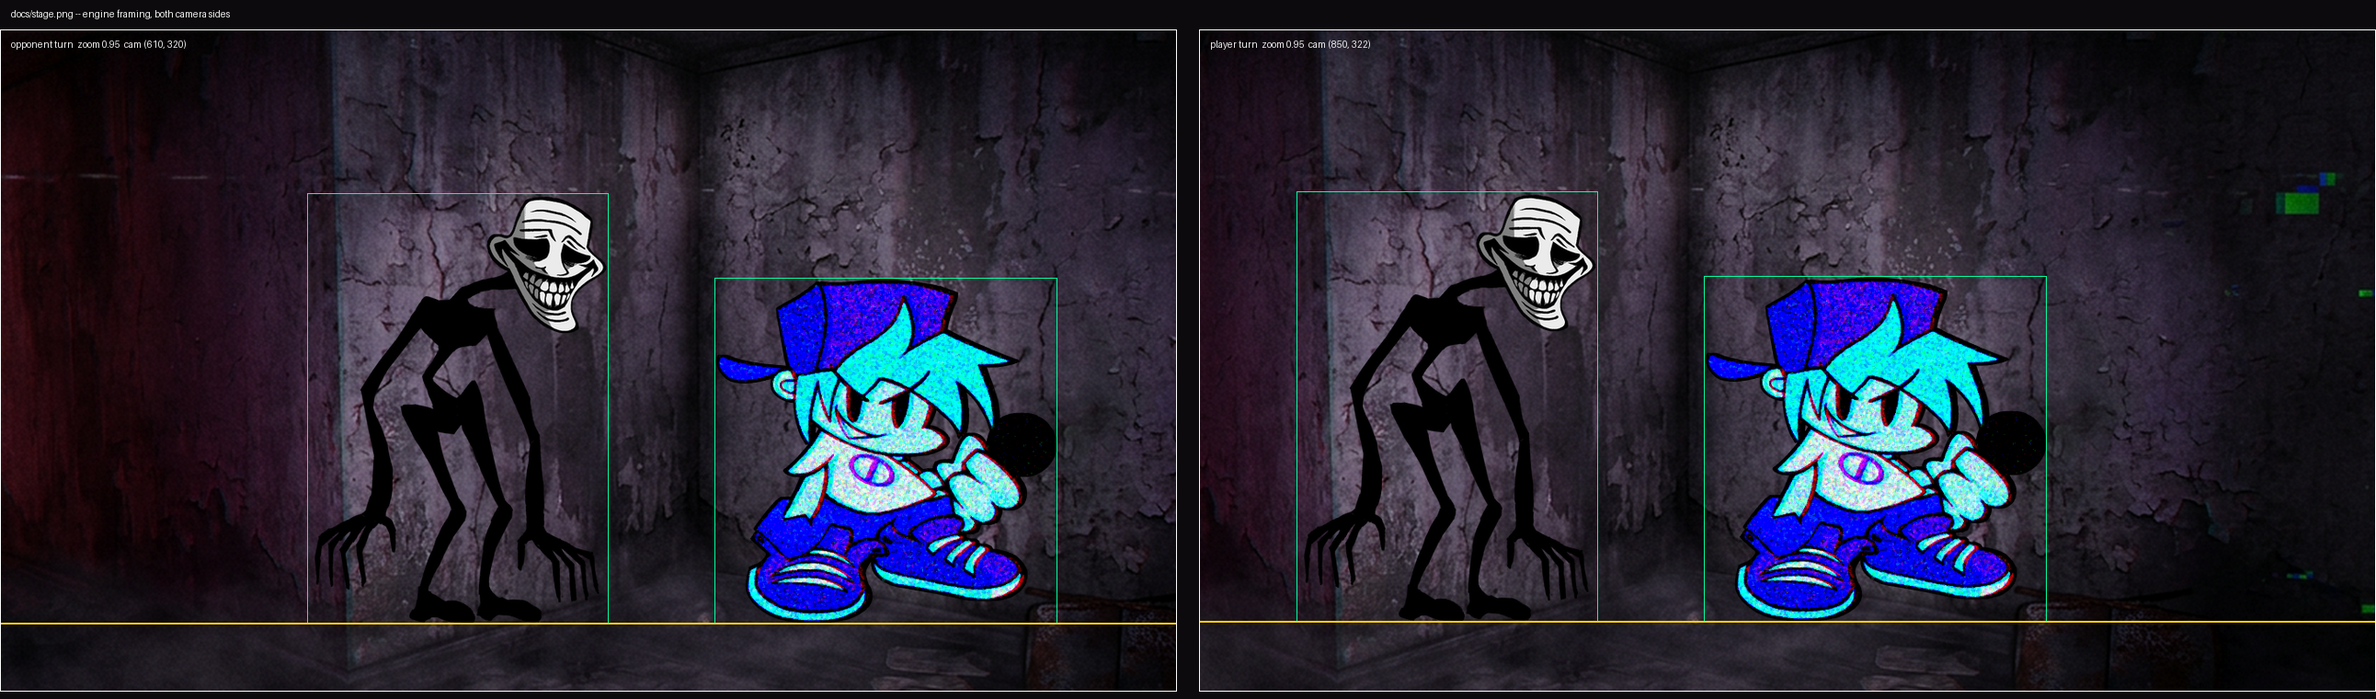
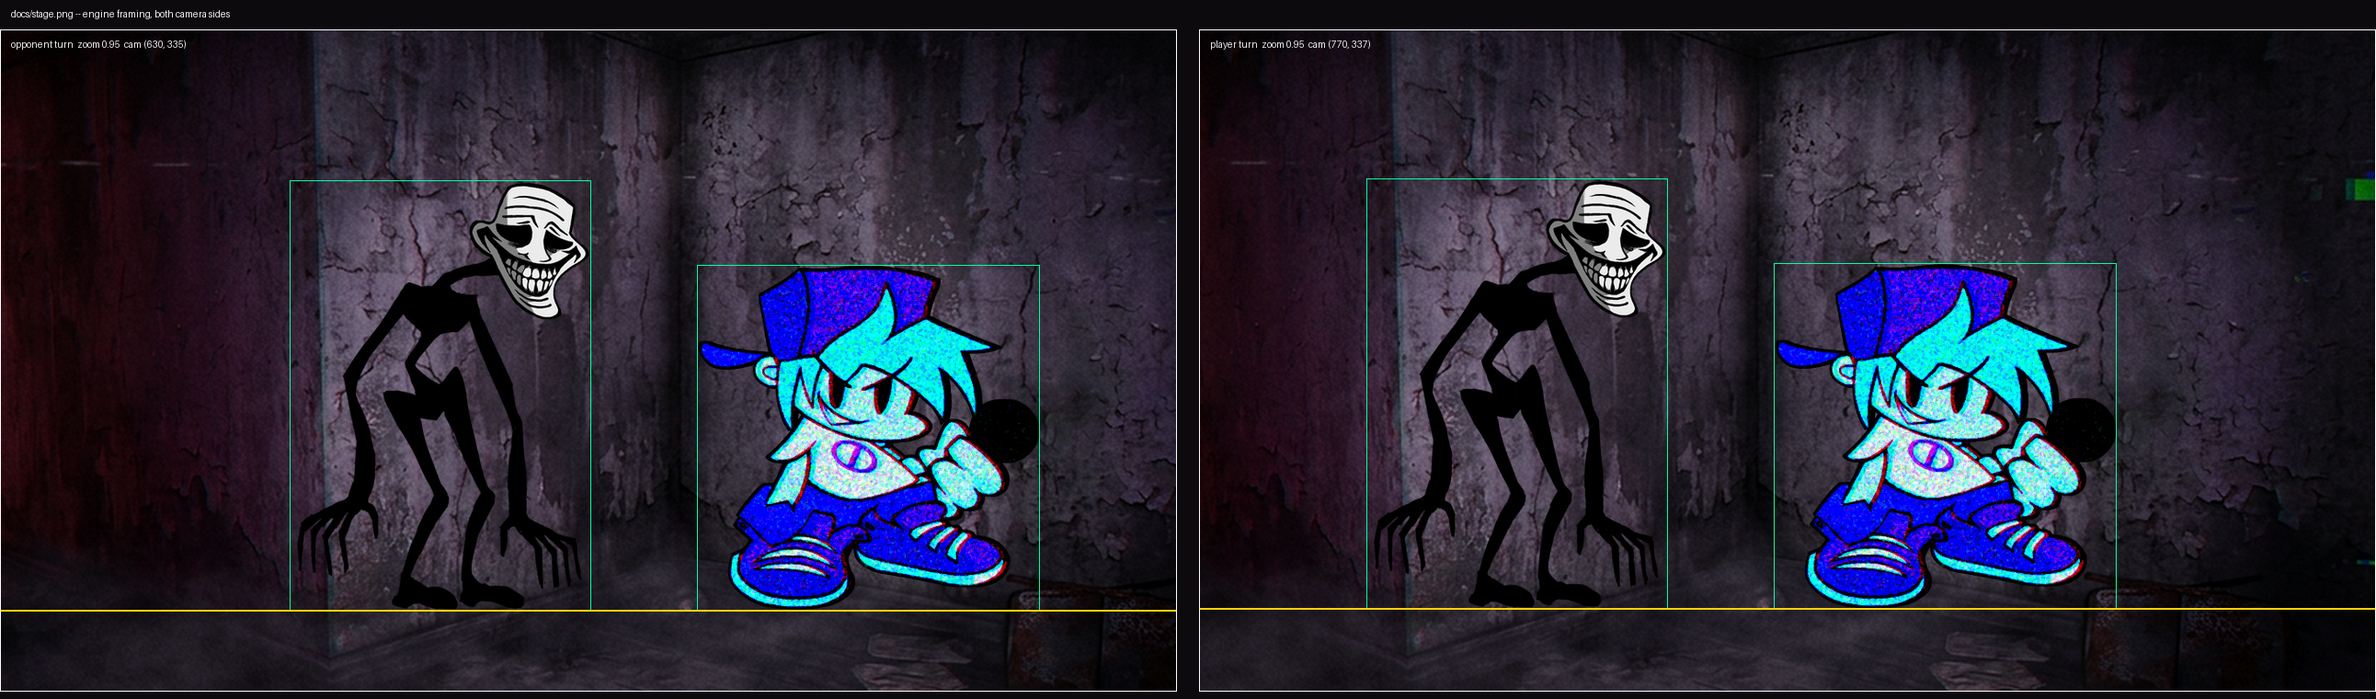
Fix camera framing and shader transparency for v3.9.0

diff --git a/tools/test_stage_bounds.py b/tools/test_stage_bounds.py
@@ -1,0 +1,72 @@
+#!/usr/bin/env python3
+"""Approximate camera framing of every exported battle animation frame.
+
+This models fixed camera targets and the generated, unscaled atlas frames. It
+is not an engine screenshot, and cannot cover dynamic zooms/shakes or user HUD
+settings. The existing stage preview checks backdrop coverage and idle feet.
+"""
+from pathlib import Path
+import xml.etree.ElementTree as ET
+import make_stage_preview as P
+
+ROOT = Path(__file__).resolve().parent.parent
+CHARACTERS = ROOT / 'mods/TrollgeMod/data/characters'
+SIDES = {
+    'opponent': ('trollge', 'trollge_glitch', 'trollge_static', 'trollge_final', 'trollge_sad'),
+    'player': ('bf_blue', 'bf_smiler', 'bf_glitched', 'bf_super_scary', 'bf_damned'),
+}
+
+
+def main():
+    stage = P.read_stage()
+    atlases = {}
+    for side, names in SIDES.items():
+        for name in names:
+            root = ET.parse(CHARACTERS / (name + '.xml')).getroot()
+            sprite, anims, frames = P.read_character(name)
+            first = next(iter(frames.values()))
+            size = (int(first['frameWidth']), int(first['frameHeight']))
+            # This model is intentionally conservative: if someone adds scale,
+            # nonzero anim offsets or nonuniform canvases, it must be updated.
+            if root.get('scale', '1') not in ('1', '1.0'):
+                raise ValueError('%s: stage bounds model does not cover character scale' % name)
+            if any(float(n.get('x', '0')) or float(n.get('y', '0')) for n in root.findall('anim')):
+                raise ValueError('%s: stage bounds model does not cover animation offsets' % name)
+            if any((int(f['frameWidth']), int(f['frameHeight'])) != size for f in frames.values()):
+                raise ValueError('%s: inconsistent frame canvas' % name)
+            stage['chars'][side]['frameW'], stage['chars'][side]['frameH'] = size
+            atlases[name] = (frames, set(anims.values()))
+
+    worst = (9999, '')
+    count = 0
+    for camera_side in SIDES:
+        for zoom in (stage['zoom'], P.MAX_TIER_ZOOM):
+            camera = dict(P.camera_for(stage, camera_side), zoom=zoom)
+            for side, names in SIDES.items():
+                char = stage['chars'][side]
+                for name in names:
+                    frames, prefixes = atlases[name]
+                    for frame_name, f in frames.items():
+                        if not any(frame_name.startswith(prefix) for prefix in prefixes):
+                            continue
+                        fw = int(f['frameWidth'])
+                        w, h = int(f['width']), int(f['height'])
+                        ox, oy = -int(f['frameX']), -int(f['frameY'])
+                        if side == 'player':
+                            ox = fw - ox - w
+                        left = (char['x'] + ox - camera['scrollX']) * zoom + P.SCREEN_W * (1 - zoom) / 2
+                        top = (char['y'] + oy - camera['scrollY']) * zoom + P.SCREEN_H * (1 - zoom) / 2
+                        margin = min(left, top, P.SCREEN_W - left - w * zoom, P.SCREEN_H - top - h * zoom)
+                        label = '%s / %s / %s camera / zoom %.2f' % (name, frame_name, camera_side, zoom)
+                        worst = min(worst, (margin, label))
+                        count += 1
+    print('%d projected animation frames checked; worst margin %.1f px: %s' % (count, *worst))
+    if worst[0] < P.MIN_MARGIN:
+        print('FAIL: minimum expected %d px' % P.MIN_MARGIN)
+        return 1
+    print('Approximate static framing passed; actual camera motion needs engine testing.')
+    return 0
+
+
+if __name__ == '__main__':
+    raise SystemExit(main())

diff --git a/tools/test_glsl_compile.py b/tools/test_glsl_compile.py
@@ -1,0 +1,77 @@
+#!/usr/bin/env python3
+"""Compile both fragment shaders against a minimal Flixel-compatible preamble.
+
+This catches GLSL syntax/type errors on desktop GLSL 330/410 and ES 300. It does
+not implement OpenFL's entire source assembler or exercise a GPU/HScript.
+Pass a glslangValidator path as the first argument, or put it on PATH.
+"""
+import os
+import re
+from pathlib import Path
+import shutil
+import subprocess
+import sys
+import tempfile
+
+ROOT = Path(__file__).resolve().parent.parent
+SHADERS = ROOT / 'mods' / 'TrollgeMod' / 'shaders'
+
+# Minimal equivalents of the interface and camera helper signatures supplied by
+# cne-flixel's FlxGraphicsShader. The engine also supplies colour transforms;
+# those are deliberately not claimed to be reproduced by this compile check.
+HEADER = '''
+in float openfl_Alphav;
+in vec2 openfl_TextureCoordv;
+uniform vec2 openfl_TextureSize;
+uniform sampler2D bitmap;
+uniform vec4 _camSize;
+out vec4 checkedFragColor;
+#define gl_FragColor checkedFragColor
+vec2 getCamPos(vec2 p) {
+    vec4 s = _camSize / openfl_TextureSize.xyxy;
+    return (p - s.xy) / s.zw;
+}
+vec2 camToOg(vec2 p) {
+    vec4 s = _camSize / openfl_TextureSize.xyxy;
+    return s.xy + p * s.zw;
+}
+vec4 checkedTextureCam(sampler2D tex, vec2 pos) {
+    return texture(tex, camToOg(pos)) * openfl_Alphav;
+}
+#define textureCam(bitmap, pos) checkedTextureCam(bitmap, pos)
+'''
+
+
+def assembled(source, profile):
+    version = ('#version 300 es\nprecision highp float;\nprecision highp int;\n'
+               if profile == 'es300' else '#version ' + ('410' if profile == 'desktop410' else '330') + ' core\n')
+    source, count = re.subn(r'^\s*#pragma\s+header\s*$', HEADER, source,
+                            count=1, flags=re.MULTILINE)
+    if count != 1:
+        raise ValueError('expected an OpenFL header pragma')
+    return version + source
+
+
+def main():
+    compiler = sys.argv[1] if len(sys.argv) > 1 else shutil.which('glslangValidator')
+    if not compiler or not os.path.isfile(compiler):
+        print('glslangValidator missing: provide its path', file=sys.stderr)
+        return 1
+    with tempfile.TemporaryDirectory() as temp:
+        for name in ('crt.frag', 'trollge_vhs.frag'):
+            source = (SHADERS / name).read_text(encoding='utf-8')
+            for profile in ('desktop330', 'desktop410', 'es300'):
+                path = Path(temp) / (name + '.' + profile + '.frag')
+                path.write_text(assembled(source, profile), encoding='utf-8')
+                result = subprocess.run([compiler, '-S', 'frag', str(path)],
+                                        text=True, capture_output=True)
+                if result.returncode:
+                    print('%s %s FAILED\n%s%s' % (name, profile, result.stdout, result.stderr))
+                    return 1
+                print('%s %s: compiled' % (name, profile))
+    print('Minimal preamble only: test in the actual engine and GPU as well.')
+    return 0
+
+
+if __name__ == '__main__':
+    sys.exit(main())

diff --git a/tools/test_shader_validation.py b/tools/test_shader_validation.py
@@ -9,6 +9,31 @@ import validate_mod as validator
 
 
 class CRTValidationTest(unittest.TestCase):
+    def test_camera_coordinates_and_premultiplied_hud_alpha(self):
+        shader = os.path.join(validator.MOD, 'shaders', 'crt.frag')
+        with open(shader, encoding='utf-8') as handle:
+            source = handle.read()
+        self.assertIn('vec2 uv = getCamPos(openfl_TextureCoordv);', source)
+        self.assertIn('vec2 suv = warped + vec2(slide, 0.0);', source)
+        self.assertIn('gl_FragColor = vec4(0.0);', source)
+        self.assertIn('vec3(col.a)', source)
+        self.assertNotIn('col.a = clamp(col.a, 0.0, 1.0) * openfl_Alphav', source)
+        vhs = os.path.join(validator.MOD, 'shaders', 'trollge_vhs.frag')
+        with open(vhs, encoding='utf-8') as handle:
+            source = handle.read()
+        self.assertIn('float alpha = sampleClamped(uv).a;', source)
+        self.assertIn('vec3(alpha)), alpha)', source)
+
+    def test_stage_preserves_existing_filters_and_cleans_up(self):
+        stage = os.path.join(validator.MOD, 'data', 'stages', 'trollge.hx')
+        with open(stage, encoding='utf-8') as handle:
+            source = handle.read()
+        self.assertIn('ps.camGame.filters.copy()', source)
+        self.assertIn('ps.camHUD.filters.copy()', source)
+        self.assertIn('filters.remove(vhsFilter)', source)
+        self.assertIn('filters.remove(crtFilter)', source)
+        self.assertIn('filters.remove(crtHudFilter)', source)
+
     def test_invalid_fetches_are_rejected(self):
         original_mod = validator.MOD
         shader = os.path.join(original_mod, 'shaders', 'crt.frag')

diff --git a/tools/validate_mod.py b/tools/validate_mod.py
@@ -248,7 +248,7 @@ def check_crt():
     ok("void main()" in source, "crt.frag has no main()")
     ok("openfl_TextureCoordv" in source, "crt.frag never samples openfl_TextureCoordv")
     ok("openfl_TextureSize" in source, "crt.frag never uses openfl_TextureSize")
-    ok("openfl_Alphav" in source, "crt.frag must multiply by openfl_Alphav for sprite alpha")
+    ok("openfl_Alphav" in source, "crt.frag should document OpenFL alpha handling")
     shader_code = re.sub(r"/\*.*?\*/|//[^\n]*", "", source, flags=re.S)
     ok(not re.search(r"\bflixel_texture2D\s*\(", shader_code),
        "crt.frag calls unsupported flixel_texture2D")

diff --git a/README.md b/README.md
@@ -18,20 +18,23 @@ looks back at you.
 **Launch it and you land in the mod's own menu** — no vanilla "press enter" screen, no base-game death theme, no
 default arrows, no default shaders.
 
-**[⬇ Download v3.8.0 testing release](../../releases/tag/v3.8.0)** · [install in four steps](#install) · [see what's inside](#whats-inside)
+**[⬇ Download v3.9.0](../../releases/tag/v3.9.0)** · [install in four steps](#install) · [see what's inside](#whats-inside)
 
-## v3.8.0 — testing release
+## v3.9.0 — release and testing status
 
-This release rebuilds the five procedurally synthesised songs with chart-matched
-pitches, corrected harmony and song-section timing, keyed drones and linked
-instrumental/vocal headroom. It also includes Freeplay compatibility files,
-shader compatibility work and battle-presentation polish.
+The CRT shader now performs its warping in camera coordinates and preserves
+transparent, premultiplied HUD pixels; the VHS pass also preserves alpha. The
+stage preserves other camera filters and removes its own on teardown. Camera
+targets have been adjusted after a framing model found a wide singing pose
+clipped on the player turn. Captions follow the virtual screen height.
 
-**Please test it:** this build has not been auditioned by the developer or run
-in Codename Engine in this environment. Automated tests do not establish that it
-sounds scary or catchy, that Freeplay opens, or that shaders work on your GPU.
-See [development status](docs/development-status.md) and the
-[music research notes](docs/music-research.md). No existing music was sampled.
+Both shaders compile under desktop GLSL 330/410 and GLES 300 with a **minimal
+Flixel-compatible test preamble**; 800 projected character frames clear the
+modelled static camera. These are not actual Codename Engine or GPU tests. The
+music has not been auditioned in this environment, so please test the songs,
+Freeplay, shaders, positioning and effects in your engine build. See the
+[development status](docs/development-status.md) and
+[music research notes](docs/music-research.md).
 
 ## At a glance
 
@@ -112,7 +115,7 @@ Freeplay in your Codename installation; the intended order is not guaranteed.
 
 ## Contents
 
-[What's new](#v380--testing-release) · [The five songs](#the-five-songs) · [Previews](#previews) · [Install](#install) · [What's inside](#whats-inside) · [The menus](#the-menus) · [Cutscenes and the ending](#cutscenes-and-the-ending) · [The death screen](#the-death-screen) · [How the charts work](#how-the-charts-work) · [Rebuilding the assets](#rebuilding-the-assets) · [CI](#ci) · [Credits](#credits)
+[What's new](#v390--release-and-testing-status) · [The five songs](#the-five-songs) · [Previews](#previews) · [Install](#install) · [What's inside](#whats-inside) · [The menus](#the-menus) · [Cutscenes and the ending](#cutscenes-and-the-ending) · [The death screen](#the-death-screen) · [How the charts work](#how-the-charts-work) · [Rebuilding the assets](#rebuilding-the-assets) · [CI](#ci) · [Credits](#credits)
 
 ---
 
@@ -120,7 +123,7 @@ Freeplay in your Codename installation; the intended order is not guaranteed.
 
 1. Get [Codename Engine](https://github.com/CodenameCrew/CodenameEngine) and make sure it runs.
 2. Grab **`TrollgeMod.zip`** from the [releases page](../../releases). There is also
-   `SuperScaryTrollge-v3.8.0.zip` — identical contents, but **install from `TrollgeMod.zip`** (see the warning below).
+   `SuperScaryTrollge-v3.9.0.zip` — identical contents, but **install from `TrollgeMod.zip`** (see the warning below).
 3. Drop that **zip** into `mods/` — or extract it so you get `mods/TrollgeMod/data/…`.
 4. Launch the engine → **Mods** → pick **TrollgeMod**.
 5. The week *SUPER SCARY TROLLGE* shows up in story mode, and all five songs are in freeplay.
@@ -310,15 +313,15 @@ The stage is not hand-placed and hoped for: `tools/make_stage_preview.py` re-imp
 
 ![Engine framing, both camera sides](docs/stage.png)
 
-It prints the clear space around each character at the stage zoom **and** at the tightest zoom any song reaches,
-and fails if anything is clipped, if the two pairs of feet are more than 2 px apart, or if the backdrop does not
+It prints the clear space around the two idle characters at the stage zoom and a modelled tier zoom of 1.03,
+and fails if those idle poses are clipped, if their feet are more than 2 px apart, or if the backdrop does not
 cover what the camera can see. The numbers it validates:
 
 | Setting | Value | Why |
 | --- | --- | --- |
 | ground line | Trollge `y=60`, Boyfriend `y=82` | the two atlases have different canvas heights (600 vs 560), so the y offset is exactly their baseline difference — the feet land on the same line to the pixel |
-| character gap | 520 px | the camera swings between the two strumlines; this is the widest gap that still keeps both characters in frame with at least 45 px of clear space on the tightest zoom |
-| `camyoffset` | 60 | without it the Trollge's feet sit on the bottom edge whenever the camera is on his side |
+| character gap | 520 px | camera offsets keep the projected animation frames in view at the modelled zooms |
+| camera offsets | dad `+20, +75`; boyfriend `-80, +75` | keeps wide poses and feet within the modelled camera frame |
 | `zoom` | 0.95 → 1.026 | the stage's 0.95 plus 0.0095 per scare step: song 1 is framed loose, song 5 is pressed in |
 
 Camera work lives in `data/stages/trollge.hx` and scales with the scare tier, so the last two songs physically feel
@@ -421,10 +424,10 @@ reviewed without launching the engine.
 
 `shaders/crt.frag` is a second, independent pass on top of it — a real CRT rather than a tape wobble:
 
-* barrel curvature (the picture bulges, and anything pushed outside the tube is written black), red/blue chromatic
+* barrel curvature (pixels outside the tube become transparent, including on the HUD), red/blue chromatic
   aberration sampled per channel, horizontal tear bands while a glitch is up, scanlines, animated static grain and a
   corner vignette, in that order;
-* it is applied **twice**: `camGame` gets `[trollge_vhs, crt]`, `camHUD` gets its own copy at roughly 60 % strength so
+* it is applied **twice**: `camGame` gets the VHS and CRT filters, `camHUD` gets its own CRT copy at roughly 60 % strength so
   score, captions and the health bar stay readable;
 * the ladder is `base = (scareTier - 2) / 8`, so 2/10 is a barely-there tube, 4/10 shows the scanlines, 6/10 starts
   splitting channels and 10/10 is a broken set — and `trollgeDistort` / `trollgeStatic` punch `uGlitch` on top;
@@ -436,7 +439,7 @@ reviewed without launching the engine.
 The validator checks both shader files for `#pragma header`, a `main()`, no `switch` statements, no reversed
 `smoothstep` edges, and that every uniform they declare is actually set by the stage script; for `crt.frag` it also
 requires the OpenFL conventions (`openfl_TextureCoordv`, `openfl_TextureSize`, `openfl_Alphav`,
-`getCamPos` and `textureCam(bitmap, …)`); it rejects unsupported `flixel_texture2D` and raw bitmap fetches in the CRT camera filter, and checks attachment to both cameras. These are static checks, not proof of a successful GPU compile or in-engine rendering.
+`getCamPos` and `textureCam(bitmap, …)`); it rejects direct `flixel_texture2D` and raw bitmap fetches in the CRT camera filter, and checks attachment to both cameras. The separate GLSL test compiles each shader using a minimal interface, not OpenFL's complete runtime assembler or a GPU.
 
 ---
 
@@ -613,7 +616,9 @@ python3 tools/make_chart.py       # meta.json, events.json, charts {easy,normal,
 python3 tools/make_cutscenes.py   # cutscene scripts + their frames/letterbox art (~2 s)
 python3 tools/make_menu.py        # main menu buttons + backdrop (~1 s)
 python3 tools/make_promo.py       # docs/banner.jpg from the real stage art (~1 s)
-python3 tools/make_stage_preview.py  # engine framing check -> docs/stage.png + margin report
+python3 tools/make_stage_preview.py  # approximate idle framing -> docs/stage.png + margin report
+python3 tools/test_stage_bounds.py   # projected bounds for all battle animation frames
+python3 tools/test_glsl_compile.py   # needs glslangValidator; minimal-preamble GLSL compile
 python3 tools/make_grade_preview.py  # re-renders the shader maths in numpy -> docs/grade.png
 python3 tools/validate_mod.py     # 2378 checks: schemas, atlas bounds, skins, HUD, note times, audio length, one character per bar...
 python3 tools/audit_songs.py      # mix + chart-style metrics -> docs/song_report.md (--strict for CI)
@@ -621,7 +626,7 @@ python3 tools/melody_report.py    # hard-chart melody metrics (--strict for CI)
 python3 tools/test_music.py       # pitch, harmony, arrangement and stem-gain regressions
 python3 tools/check_stem_mix.py  # decoded equal-gain stem-sum peak estimate
 python3 tools/dread_report.py     # dread-band spectral proxy with 3 dB tolerance (--strict for CI)
-python3 tools/package_mod.py      # dist/TrollgeMod.zip + dist/SuperScaryTrollge-v3.8.0.zip
+python3 tools/package_mod.py      # dist/TrollgeMod.zip + dist/SuperScaryTrollge-v3.9.0.zip
                                   # (175 files, includes shaders/ + music/; install the TrollgeMod one)
 ```
 

diff --git a/docs/development-status.md b/docs/development-status.md
@@ -1,7 +1,6 @@
-# v3.8.0 testing release status
+# v3.9.0 release status
 
-This is a testing release, not an engine-verified release. No Codename Engine runtime, GLSL
-compiler, or playback/listening test was available in this environment.
+This is a testing release, not an engine-verified release. No Codename Engine runtime, GPU rendering test, or playback/listening test was available in this environment. A standalone GLSL compiler was used with a minimal preamble.
 
 ## Checks run on this checkout
 
@@ -14,6 +13,8 @@ compiler, or playback/listening test was available in this environment.
 - `python3 tools/check_stem_mix.py`: decoded equal-gain stem-sum peak estimates.
 - `python3 tools/dread_report.py --strict`: dread ladder within its tolerance.
 - `python3 tools/test_polish.py`: character wiring, chart timing, note contrast, countdown bounds and seeded texture checks pass.
+- `python3 tools/test_stage_bounds.py`: 800 projected battle frames pass; minimum modelled margin 60.1 px at two static zooms.
+- `python3 tools/test_glsl_compile.py`: both shaders compile for desktop GLSL 330/410 and ES 300 with a minimal Flixel-compatible preamble.
 - `python3 tools/test_shader_validation.py`: unsupported and wrong-camera
   sampling mutations rejected; current CRT accepted.
 - `python3 tools/check_freeplay_zip.py`: built archive passes old/new path and
@@ -47,7 +48,7 @@ still need to be assessed with the actual instrumental and voices together.
   web/mobile, 410 core on macOS and 330 core elsewhere. Its default source
   compatibility pass translates `gl_FragColor` and `texture2D`. This is not a
   driver compilation test, and other engine builds may use other dependencies.
-- CRT camera sampling now follows the engine's camera helper convention, but
+- CRT warping uses camera coordinates and both passes preserve premultiplied transparency. Stage teardown preserves unrelated filters. The standalone compiler does not reproduce the full OpenFL pipeline;
   shader initialization, filter survival and the actual rendered frame must be
   checked in-engine, including a machine without shader support.
 - The five backgrounds and menu were visually reviewed. The last backdrop was

diff --git a/CONTRIBUTING.md b/CONTRIBUTING.md
@@ -23,7 +23,7 @@ scripts in `tools/`, so most contributions are a code change plus a regeneration
 3. **Keep the scare tiers honest.** The ladder is 2/10 → 4/10 → 6/10 → 8/10 → 10/10, one band per song, and it
    has to stay strictly rising (`tools/audit_songs.py` fails otherwise). If you add a jumpscare to song 1, you have
    changed the design — say so in the PR.
-4. **Never hand-place the stage.** Character positions, the gap between them and `camyoffset` are validated by
+4. **Validate stage placement.** Character positions, the gap between them and camera offsets are modelled by
    `tools/make_stage_preview.py` against the engine's real framing maths; edit `data/stages/trollge.xml` and re-run
    it instead of nudging numbers until it looks right in one resolution.
 
@@ -152,6 +152,8 @@ Both are loaded by `data/stages/trollge.hx` with `FunkinShader.fromFile('<name>'
 `CustomShader`), wrapped in filters with `openfl.filters.ShaderFilter`, and driven from `update(elapsed)`. Rules for
 touching them:
 
+* run `python3 tools/test_glsl_compile.py` with `glslangValidator` installed: its minimal preamble catches GLSL syntax/type errors but does not simulate OpenFL or a GPU;
+* preserve existing camera filters and remove only this stage's filters during teardown; keep HUD output premultiplied and transparent outside the CRT tube;
 * every load, filter creation and `setFloat` stays inside its own `try/catch`, and every shader variable is null-checked
   -- a driver that cannot compile a shader should cost you the effect, never the song;
 * a new uniform has to be declared in the `.frag` **and** set by the stage script; `validate_mod.py` cross-checks both

diff --git a/docs/releases/v3.9.0.md b/docs/releases/v3.9.0.md
@@ -1,0 +1,27 @@
+## Super Scary Trollge v3.9.0
+
+Download **TrollgeMod.zip** and put it in Codename Engine's `mods/` folder, or
+extract it as `mods/TrollgeMod/`. The versioned ZIP contains the same bytes.
+This mod is for Codename Engine, not Psych Engine or YoshiCrafter.
+
+### Changes
+
+- Corrected CRT camera-space coordinates and preserved transparent,
+  premultiplied HUD pixels; the VHS pass preserves alpha as well. Camera filters
+  installed by other scripts are preserved, and this stage removes its own
+  filters on teardown.
+- Adjusted both camera targets so wider singing frames stay within the
+  projected play area; the caption position now follows virtual screen height.
+- Includes the five rebuilt songs, Freeplay compatibility lists and battle
+  presentation improvements from v3.8.0.
+- Added GLSL compilation against a minimal Flixel-compatible preamble and
+  modelled bounds checks for all 800 projected battle animation frames.
+
+### Testing limitations
+
+Automated validation, standalone shader compilation and framing models passed,
+but this environment cannot run Codename Engine, test a GPU driver or audition
+the music. These checks **do not prove** shader display, gameplay, Freeplay
+ordering, positioning during camera motion, or how the music sounds. Please test
+Story and Freeplay, all five songs, the effects and the ending on your engine
+version. If there is a problem, report the song, timestamp and engine version.
